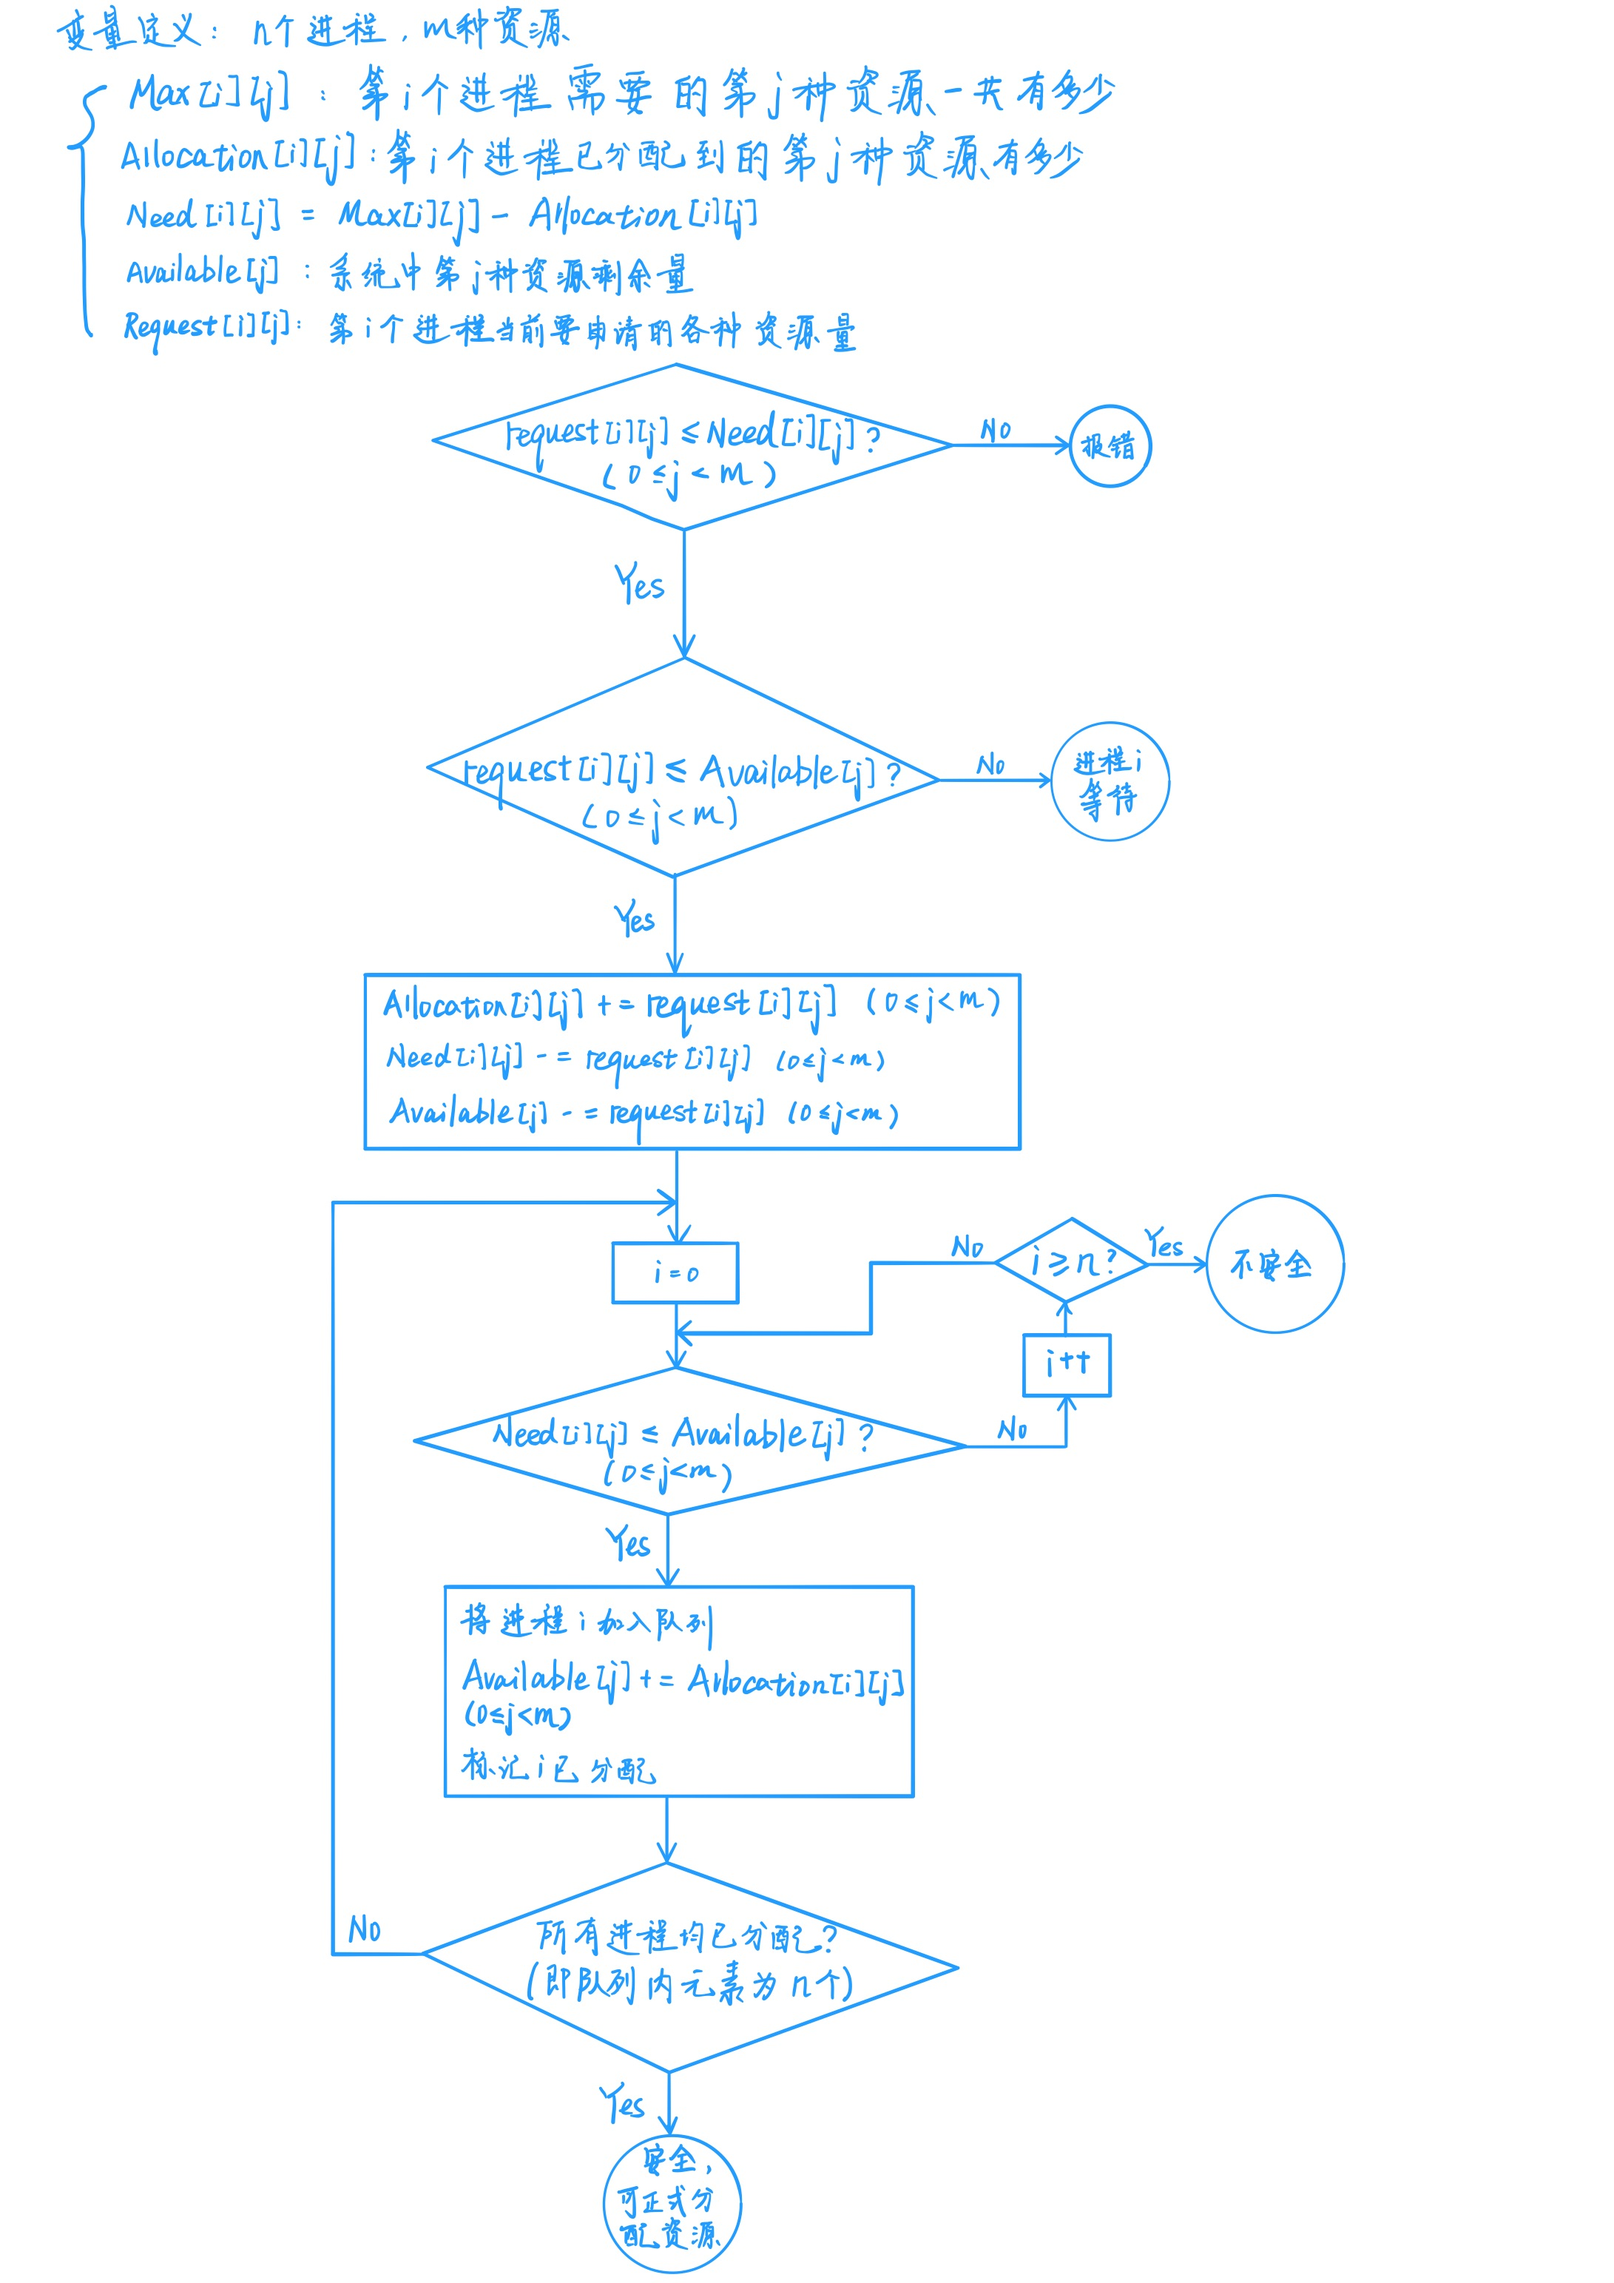
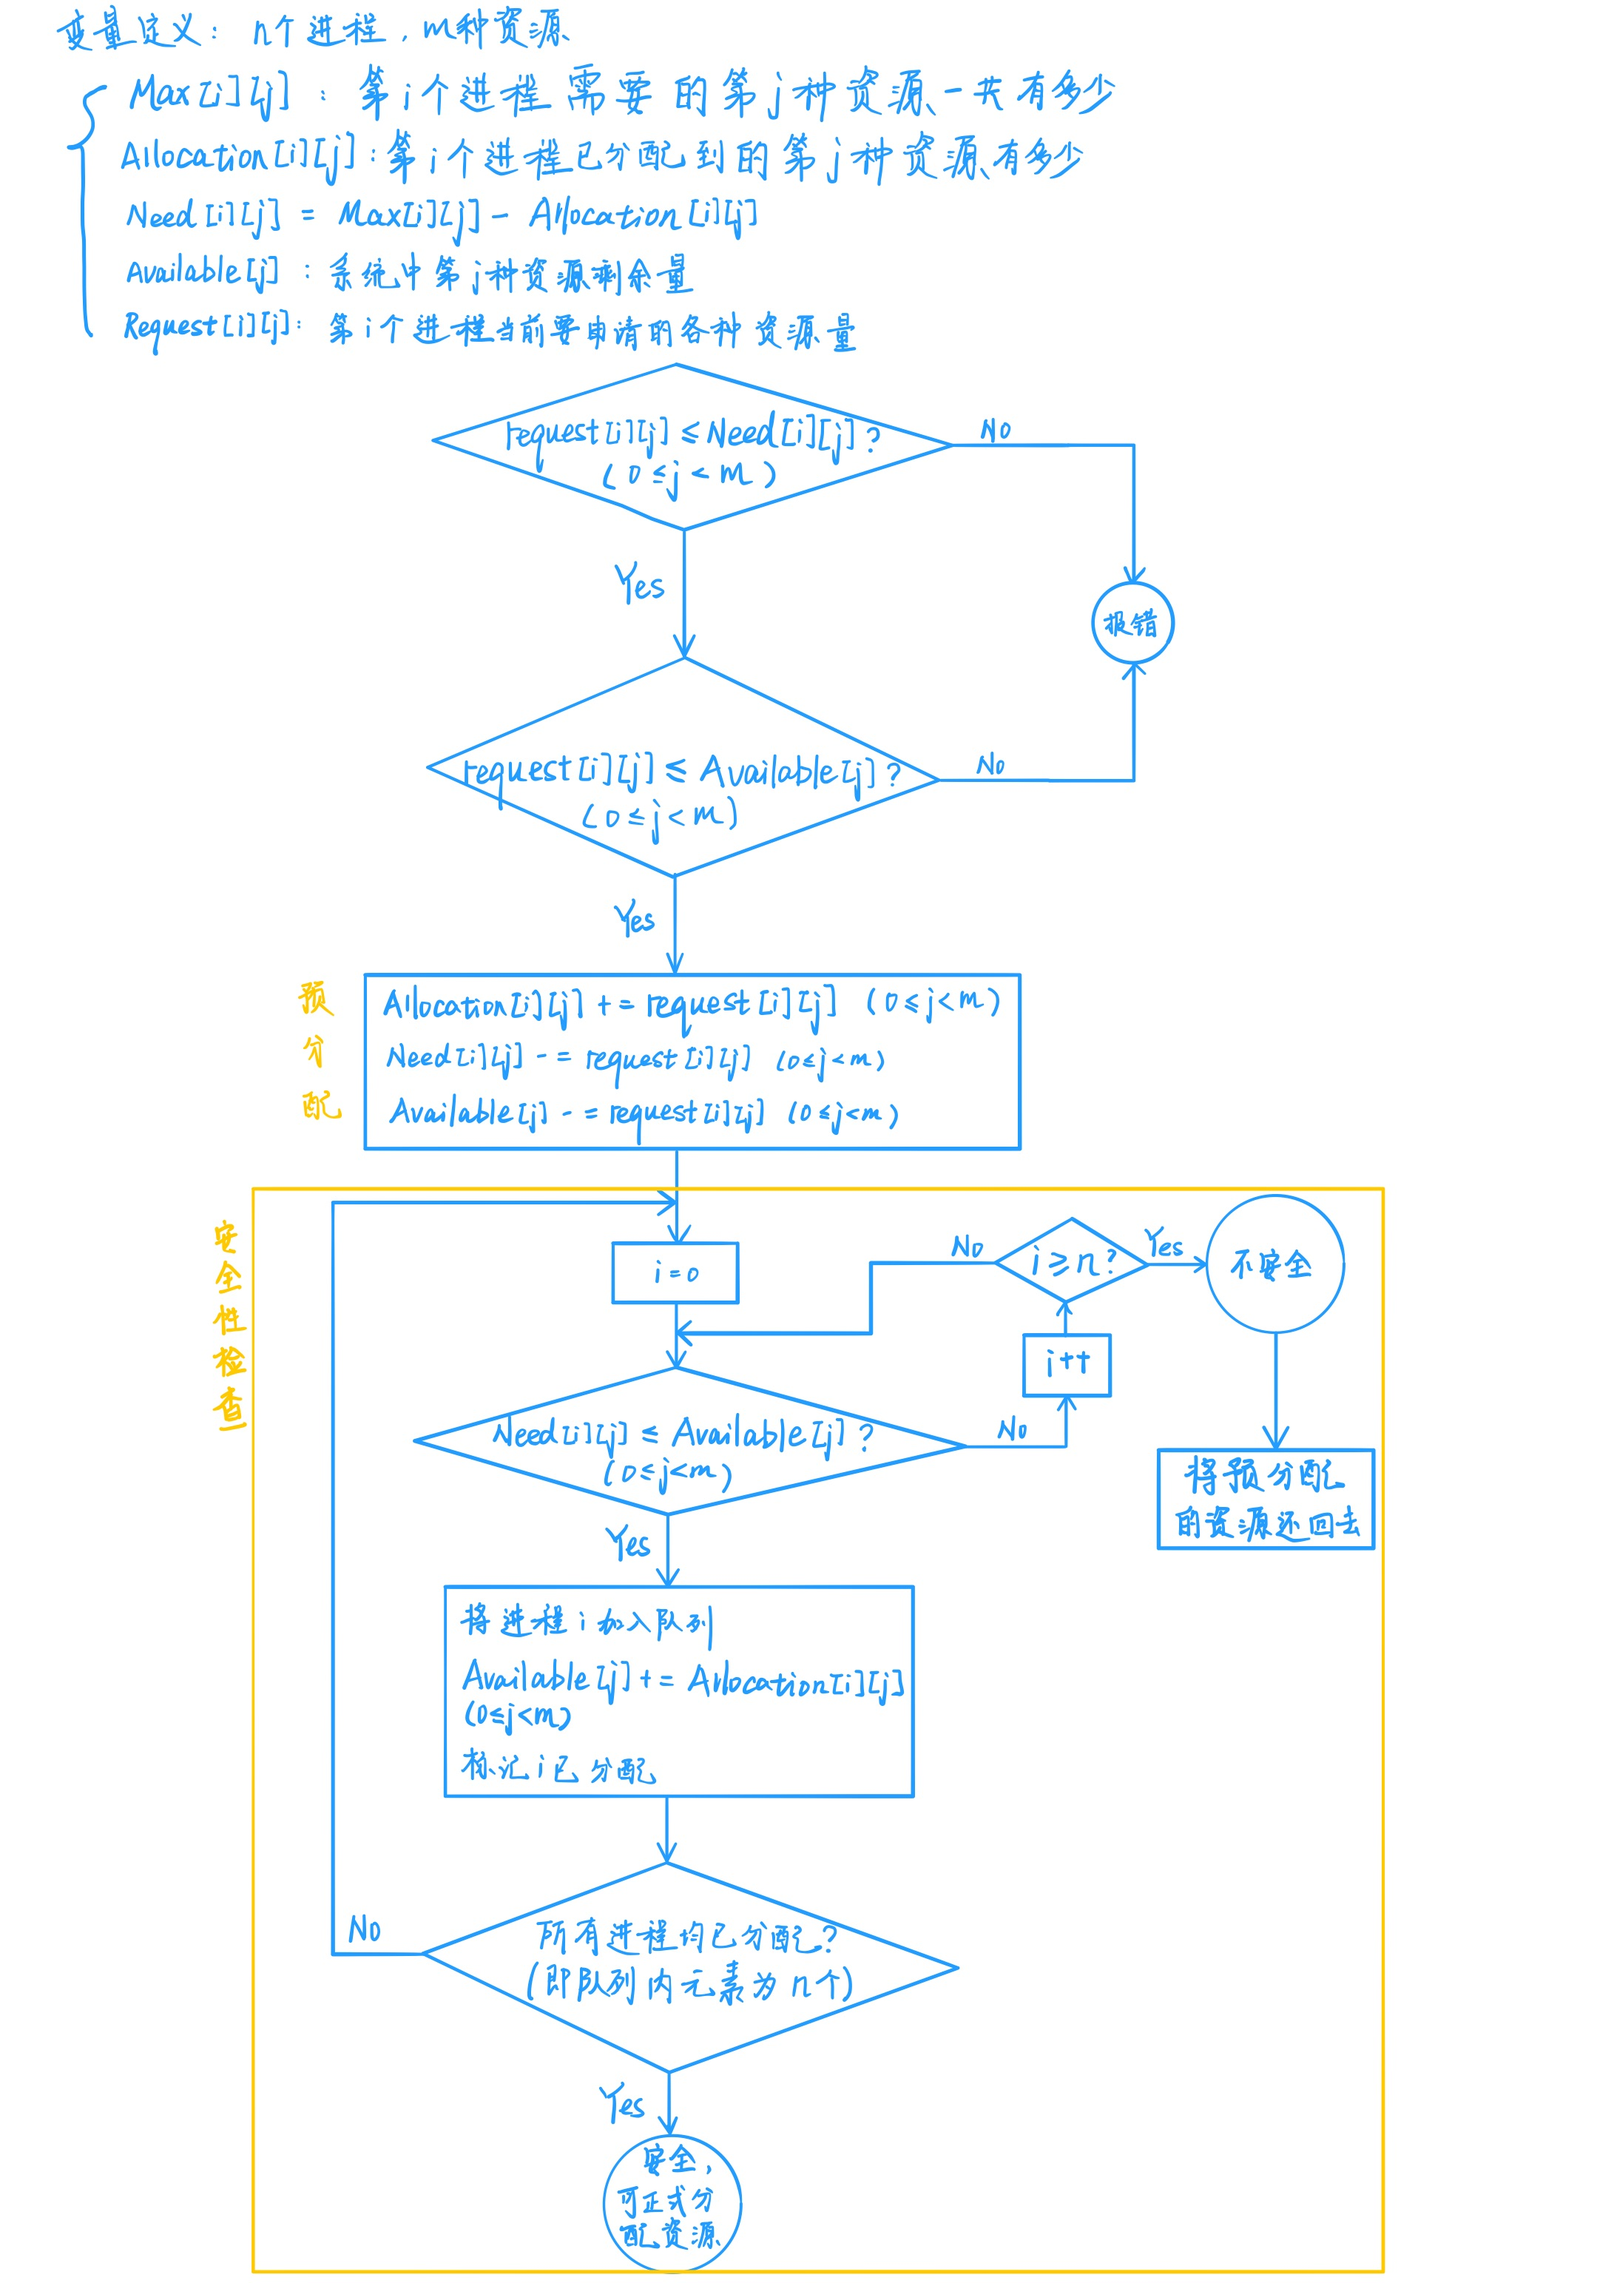
OS 实验3 银行家算法

diff --git a/(2020年秋)操作系统/OS 实验3 银行家算法/main.cpp b/(2020年秋)操作系统/OS 实验3 银行家算法/main.cpp
@@ -1,0 +1,281 @@
+#pragma warning(disable:4996)
+#pragma warning(disable:6031)
+#include<iostream>
+#include<stdio.h>
+#include<string.h>
+#include<queue>
+using namespace std;
+const int MAXN = 55;	//进程数量
+const int MAXM = 55;	//资源数量
+
+int n, m, id;	//一共n个进程m个资源，id是进程编号
+int Sum[MAXN][MAXM];	//进程i需要的第j种资源总数
+int Allocation[MAXN][MAXM];	//进程i已经分配到的资源j
+int Need[MAXN][MAXM];	//进程i还需要的第j种资源
+int Available[MAXM];	//系统中第j种资源的数目
+int Request[MAXM];	//当前进程申请的j种资源
+
+int visit[MAXN];	//进程i是否已被分配
+int used[MAXN];		//进程所需资源已经分配完
+int available[MAXM];//用于安全性检测的副本变量
+
+void input()
+{
+	printf("请输入进程数量和资源数量（用空格隔开）\n");
+	scanf("%d%d", &n, &m);
+
+	printf("接下来输入m个数，表示系统中总共有的每种资源数目\n");
+	for (int j = 1; j <= m; j++)
+		scanf("%d", &Available[j]);
+
+	printf("下面n行m列请输入：某进程总共需要的每种资源数量\n");
+	for (int i = 1; i <= n; i++)
+		for (int j = 1; j <= m; j++)
+			scanf("%d", &Sum[i][j]);
+
+	printf("下面n行m列请输入：某进程已分配到的每种资源数量\n");
+	for (int i = 1; i <= n; i++)
+		for (int j = 1; j <= m; j++)
+			scanf("%d", &Allocation[i][j]);
+
+	//计算剩余需求量
+	for (int i = 1; i <= n; i++)
+		for (int j = 1; j <= m; j++)
+			Need[i][j] = Sum[i][j] - Allocation[i][j];
+}
+
+//检查是否合法
+bool check()
+{
+	for (int j = 1; j <= m; j++)
+	{
+		if (Request[j] > Need[id][j])
+		{
+			printf("超过进程最大需求！\n");
+			return false;
+		}
+	}
+	for (int j = 1; j <= m; j++)
+	{
+		if (Request[j] > Available[j])
+		{
+			printf("超过当前系统总资源！\n");
+			return false;
+		}
+	}
+	return true;
+}
+
+//如果进程所需全部资源均已得到，就用完归还
+void ifFinish(int op)
+{
+	int flag = 1;
+	for (int j = 1; j <= m; j++)
+	{
+		if (Need[id][j] > 0)
+			flag = 0;
+	}
+	if (flag)
+	{
+		if (op)
+		{
+			for (int j = 1; j <= m; j++)
+			{
+				Available[j] += Sum[id][j];
+			}
+			used[id] = 1;
+		}
+		else
+		{
+			for (int j = 1; j <= m; j++)
+			{
+				Available[j] -= Sum[id][j];
+			}
+			used[id] = 0;
+		}
+	}
+}
+
+//预分配
+void preAllocation(int op)
+{
+	if (op)	//预分配
+	{
+		for (int j = 1; j <= m; j++)
+		{
+			Allocation[id][j] += Request[j];
+			Need[id][j] -= Request[j];
+			Available[j] -= Request[j];
+		}
+		ifFinish(1);
+	}
+	else //系统不安全时，将预分配的还回去
+	{
+		for (int j = 1; j <= m; j++)
+		{
+			Allocation[id][j] -= Request[j];
+			Need[id][j] += Request[j];
+			Available[j] += Request[j];
+		}
+	}
+	
+}
+
+//安全性检查，返回1表示安全，返回0表示不安全，返回2表示全部进程资源分配完毕
+int safetyCheck()
+{
+	memset(visit, 0, sizeof(visit));
+	//用临时变量进行模拟
+	for (int j = 1; j <= m; j++)
+	{
+		available[j] = Available[j];
+	}
+
+	queue<int> que;
+	while (que.size() < n)
+	{
+		int num = 0;
+		for (int i = 1; i <= n; i++)
+		{
+			if (used[i])
+			{
+				num = -1;	//标记是否所有进程已经分配过了，就剩最后一个
+				continue;
+			}
+			int flag = 1;
+			for (int j = 1; j <= m; j++)
+			{
+				if (Need[i][j] > available[j])
+				{
+					flag = 0;
+					break;
+				}
+			}
+			if (flag)//进程i的所有Need资源都小于已有资源
+			{
+				num = i;
+				break;
+			}
+		}
+		if (num == -1)
+			return 2;	//全部分配完毕
+		if (!num)
+		{
+			printf("序列不安全!\n");
+			return 0;
+		}
+
+		//分配进程num
+		que.push(num);
+		visit[num] = 1;
+		for (int j = 1; j <= m; j++)
+		{
+			available[j] += Need[num][j];	//系统资源增加
+		}
+	}
+	return 1;
+}
+
+void output2(int i, int a[MAXN][MAXM])
+{
+	for (int j = 1; j <= m; j++)
+	{
+		if (j == 1)
+			printf("%5c", '(');
+		else
+			printf(",");
+		printf("%d", a[i][j]);
+		if (j == m)
+			printf(")");
+	}
+}
+
+
+void output()
+{
+	printf("\n系统资源：(");
+	for (int j = 1; j <= m; j++)
+		printf("%d%c", Available[j], j == m ? ')' : ',');
+
+	printf("\n---------------------------------------------\n");
+	printf("| 进程编号 | 最大需求 | 已分配量 | 最多还需 |\n");
+	printf("---------------------------------------------\n");
+	for (int i = 1; i <= n; i++)
+	{
+		printf("|%9d", i);
+		output2(i, Sum);
+		output2(i, Allocation);
+		output2(i, Need);
+		printf(" |\n");
+	}
+	printf("---------------------------------------------\n");
+	printf("\n");
+}
+int main()
+{
+	input();
+	output();
+	while (1)
+	{
+		//system("pause");
+		//system("cls");
+		printf("请输入进程编号，以及该进程分配所需的m种资源数量(输入0退出)：\n");
+		scanf("%d", &id);
+		if (!id)
+			break;
+		for (int j = 1; j <= m; j++)
+			scanf("%d", &Request[j]);
+		if (check())
+		{
+			preAllocation(1);
+			int ifSafe = safetyCheck();
+			if (!ifSafe)
+			{
+				preAllocation(0);
+				ifFinish(0);
+			}
+			output();
+			if (ifSafe == 2)
+			{
+				printf("所有进程所需资源分配完毕！\n");
+				break;
+			}
+		}
+	}
+	return 0;
+}
+
+/*
+* 测试数据：
+系统当前分配情况：
+5 3
+3 3 2
+7 5 3
+3 2 2
+9 0 2
+2 2 2
+4 3 3
+0 1 0
+2 0 0
+3 0 2
+2 1 1
+0 0 2
+*/
+
+/*
+进程分配样例：
+1
+2 1 1
+2
+1 1 0
+4
+0 1 1
+2
+0 1 2
+1
+5 3 2
+3
+6 0 0
+5
+4 3 1
+*/
